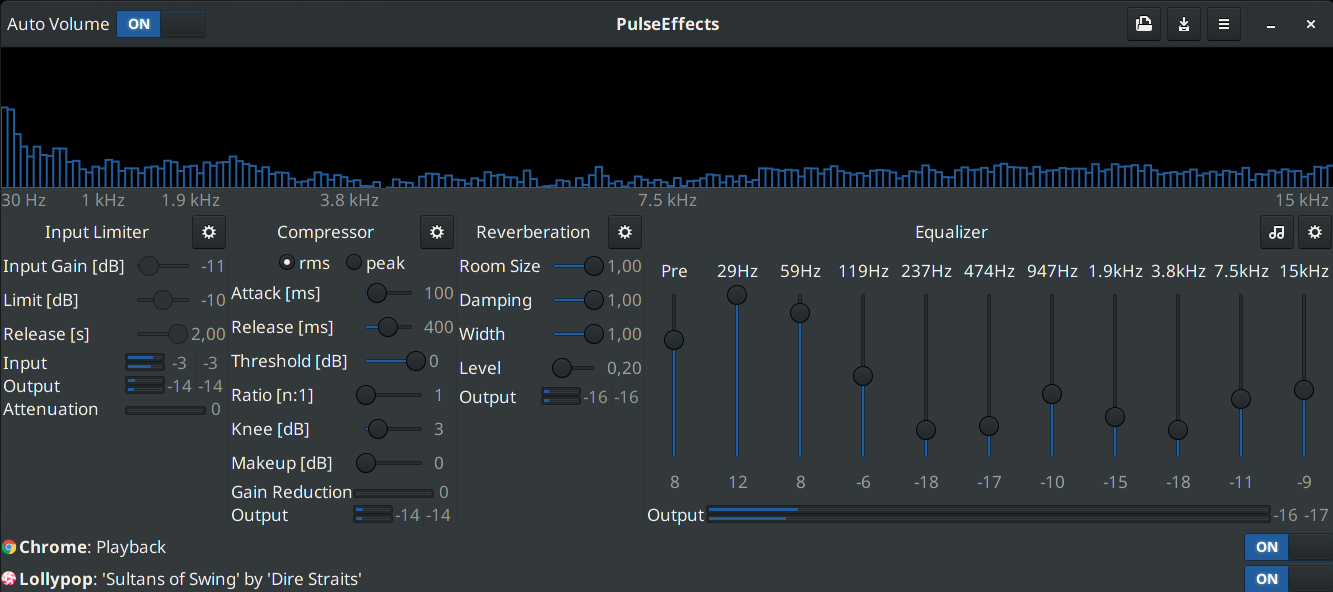
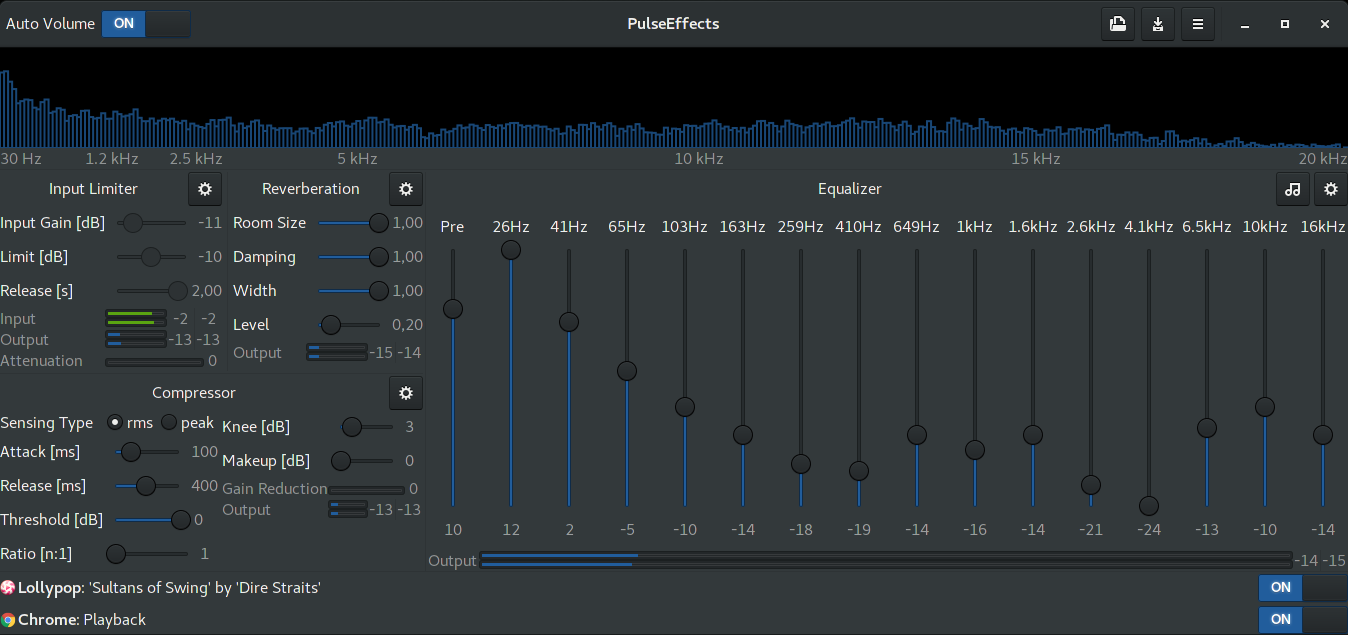
updated readme

diff --git a/README.md b/README.md
@@ -12,7 +12,7 @@ Effects order:
 1. Fast Lookahead Limiter
 2. SC4 Compressor
 3. Gstreamer Freeverb
-4. Gstreamer 10 Bands Equalizer
+4. Gstreamer Equalizer
 
 Required libraries:
 
